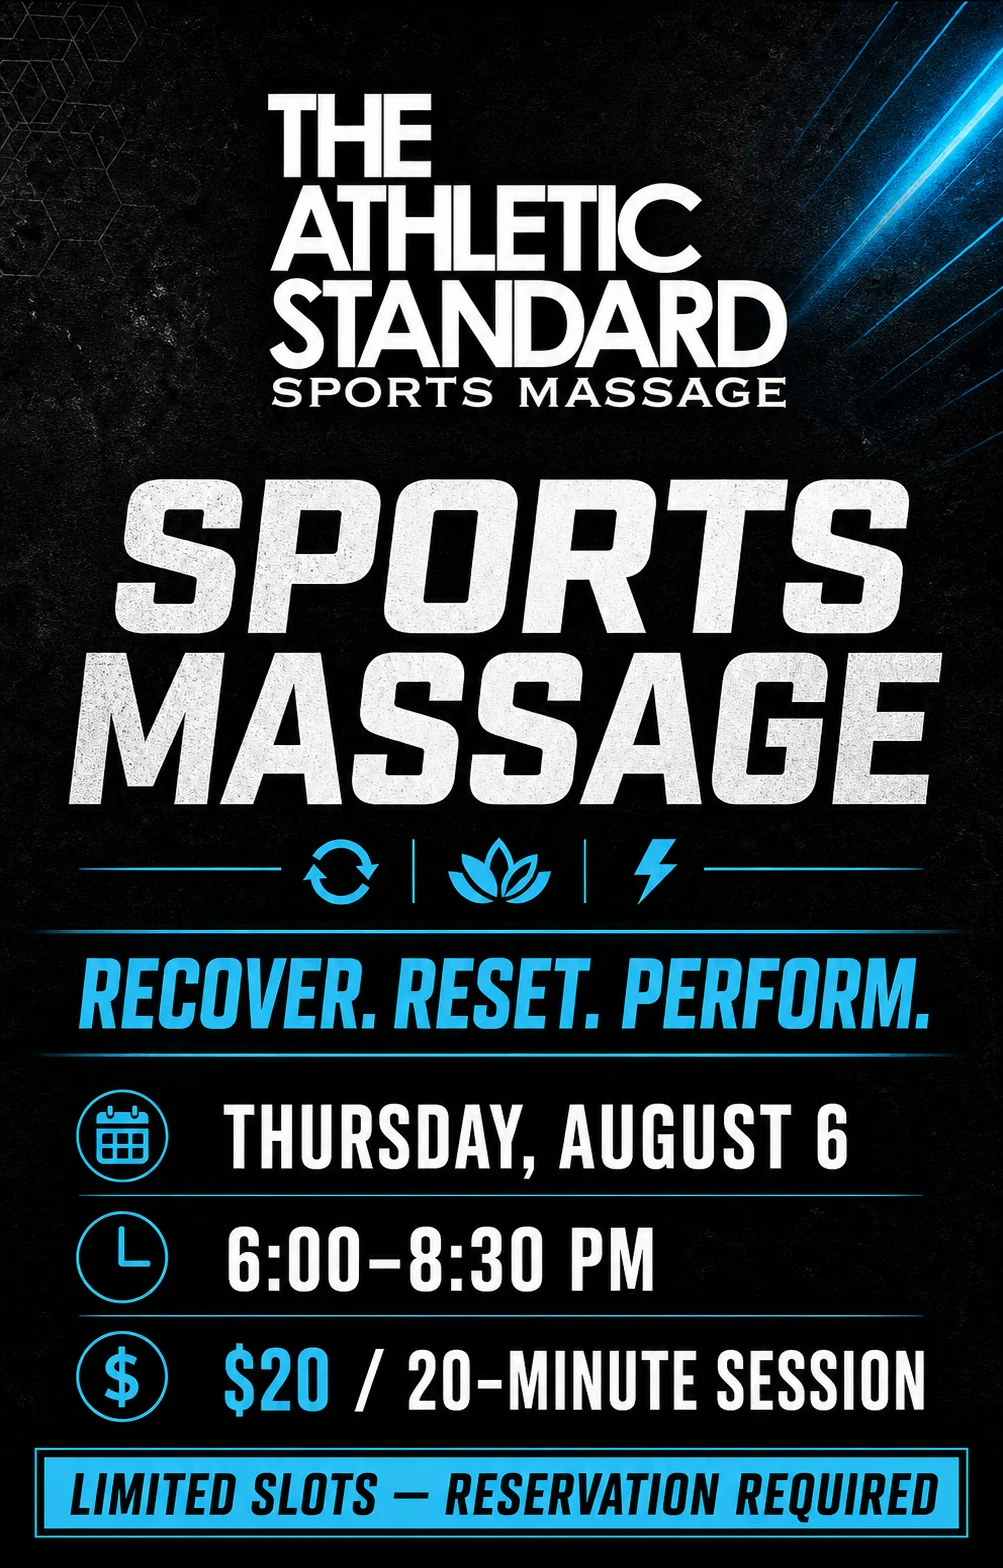
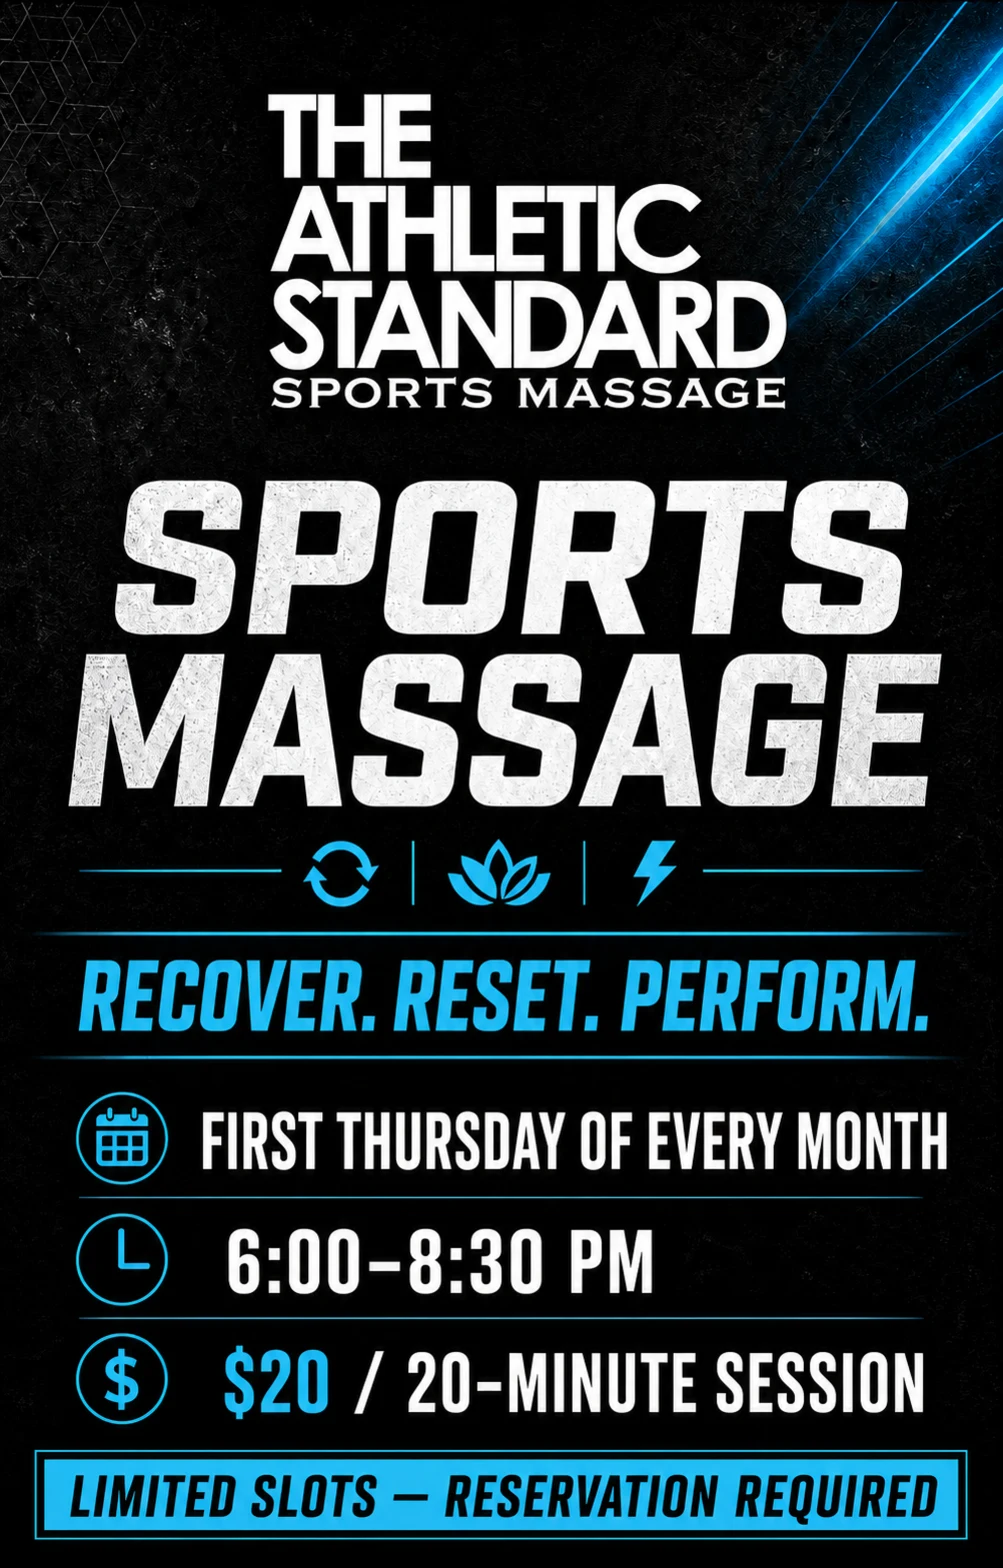
Update event dates and order

diff --git a/index.html b/index.html
@@ -217,8 +217,8 @@
       "@type": "Event",
       "name": "The Athletic Standard Sports Massage",
       "description": "The Athletic Standard is offering reservation-only 20-minute sports massage sessions for $20. Limited time slots are available.",
-      "startDate": "2026-08-06T18:00:00-04:00",
-      "endDate": "2026-08-06T20:30:00-04:00",
+      "startDate": "2026-09-03T18:00:00-04:00",
+      "endDate": "2026-09-03T20:30:00-04:00",
       "eventStatus": "https://schema.org/EventScheduled",
       "image": "https://www.backyardbullies-wc.com/images/camps/athletic-standard-sports-massage.webp",
       "url": "https://www.backyardbullies-wc.com/massage",
@@ -555,27 +555,6 @@
         </div>
 
         <div class="grid lg:grid-cols-3 gap-6">
-          <!-- The Athletic Standard Sports Massage -->
-          <article class="bg-ink-card border border-ink-line rounded-xl p-6 flex flex-col">
-            <div class="min-h-20 mb-3">
-              <h3 class="font-head font-700 uppercase text-xl text-brand mb-1">The Athletic Standard Sports Massage</h3>
-              <p class="text-xs uppercase tracking-wide text-slate-400">Thursday, August 6, 2026 • 6:00–8:30 PM</p>
-            </div>
-            <a href="images/camps/athletic-standard-sports-massage.webp" target="_blank" rel="noopener noreferrer" class="mb-5 h-80 w-60 self-center overflow-hidden rounded-lg bg-ink ring-1 ring-ink-line focus-visible:outline focus-visible:outline-2 focus-visible:outline-offset-4 focus-visible:outline-brand">
-              <img src="images/camps/athletic-standard-sports-massage.webp" alt="The Athletic Standard Sports Massage flyer with August 6 session details" width="1003" height="1568" loading="lazy" class="h-full w-full object-fill" />
-              <span class="sr-only">View the full Athletic Standard Sports Massage flyer (opens in new window)</span>
-            </a>
-            <p class="text-slate-200 text-sm mb-4">Recover, reset, and perform with a focused 20-minute sports massage session offered by The Athletic Standard.</p>
-            <ul class="list-disc pl-5 space-y-1.5 text-slate-200 text-sm mb-6">
-              <li>$20 per 20-minute session</li>
-              <li>Available from 6:00 to 8:30 PM</li>
-              <li>Limited slots — reservation required</li>
-            </ul>
-            <a href="https://www.backyardbullies-wc.com/massage" target="_blank" rel="noopener noreferrer" class="mt-auto inline-flex items-center justify-center gap-2 bg-brand text-ink font-head font-700 uppercase text-sm px-5 py-3 rounded-md hover:bg-brand-dark transition-colors">
-              Reserve a Massage Session<span class="sr-only"> (opens in new window)</span>
-            </a>
-          </article>
-
           <!-- Homeschool Functional Fitness + Wrestling -->
           <article class="bg-ink-card border border-ink-line rounded-xl p-6 flex flex-col">
             <div class="min-h-20 mb-3">
@@ -593,6 +572,27 @@
               <li>Four or eight sessions per month</li>
             </ul>
             <a href="homeschool-functional-fitness/" class="mt-auto inline-flex items-center justify-center gap-2 bg-brand text-ink font-head font-700 uppercase text-sm px-5 py-3 rounded-md hover:bg-brand-dark transition-colors">View program details &amp; register</a>
+          </article>
+
+          <!-- The Athletic Standard Sports Massage -->
+          <article class="bg-ink-card border border-ink-line rounded-xl p-6 flex flex-col">
+            <div class="min-h-20 mb-3">
+              <h3 class="font-head font-700 uppercase text-xl text-brand mb-1">The Athletic Standard Sports Massage</h3>
+              <p class="text-xs uppercase tracking-wide text-slate-400">Thursday, September 3, 2026 • 6:00–8:30 PM</p>
+            </div>
+            <a href="images/camps/athletic-standard-sports-massage.webp" target="_blank" rel="noopener noreferrer" class="mb-5 h-80 w-60 self-center overflow-hidden rounded-lg bg-ink ring-1 ring-ink-line focus-visible:outline focus-visible:outline-2 focus-visible:outline-offset-4 focus-visible:outline-brand">
+              <img src="images/camps/athletic-standard-sports-massage.webp" alt="The Athletic Standard Sports Massage flyer for the first Thursday of every month" width="1003" height="1568" loading="lazy" class="h-full w-full object-fill" />
+              <span class="sr-only">View the full Athletic Standard Sports Massage flyer (opens in new window)</span>
+            </a>
+            <p class="text-slate-200 text-sm mb-4">Recover, reset, and perform with a focused 20-minute sports massage session offered by The Athletic Standard.</p>
+            <ul class="list-disc pl-5 space-y-1.5 text-slate-200 text-sm mb-6">
+              <li>$20 per 20-minute session</li>
+              <li>Available from 6:00 to 8:30 PM</li>
+              <li>Limited slots — reservation required</li>
+            </ul>
+            <a href="https://www.backyardbullies-wc.com/massage" target="_blank" rel="noopener noreferrer" class="mt-auto inline-flex items-center justify-center gap-2 bg-brand text-ink font-head font-700 uppercase text-sm px-5 py-3 rounded-md hover:bg-brand-dark transition-colors">
+              Reserve a Massage Session<span class="sr-only"> (opens in new window)</span>
+            </a>
           </article>
 
           <!-- JJ Howland Wrestling Clinic -->
